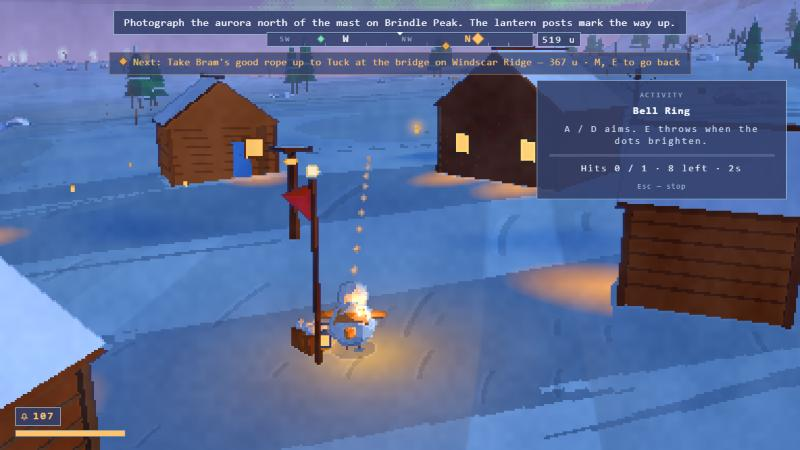
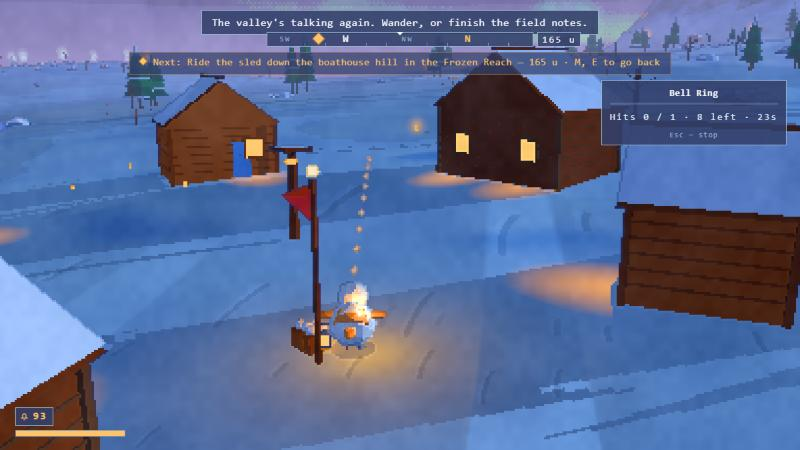
Director's round-6 picks: bigger activity gem, photo frame hidden while shooting, panel out of the viewfinder
- Activity gem 1.7x (GEM_PX 4.25) and full emissive, chosen from a side-by-side.
- A photo spot's own start frame hides while its viewfinder is up (it crossed the aurora shot).
- In photo mode the activity panel moves under the frame's bottom-right corner, running line only;
  Esc joins the keys line. At the top right it covered the subject's arrow.
- The nearby line drops an activity once a map hop has carried Pip out of range ("nearby, 773 u").
- Review page updated: fish and bell mocks redone with labels, glow proposal withdrawn.

Changed region(s): [[0.125, 0.0, 1.0, 0.4667], [0.0312, 0.9022, 0.0938, 0.9644], [0.4375, 0.7467, 0.4688, 0.7778]]

diff --git a/review/round-6/index.html b/review/round-6/index.html
@@ -7,123 +7,126 @@
 <style>
   :root {
     --bg: #f4f1ea; --card: #ffffff; --ink: #1d2230; --mute: #5d6474; --line: #ddd6c8;
-    --pick: #2f7d5b; --pick-bg: #e3f2ea; --tag: #8a5a12; --tag-bg: #f8ecd6;
+    --pick: #2f7d5b; --pick-bg: #e3f2ea; --ask: #8a5a12; --ask-bg: #f8ecd6;
   }
   @media (prefers-color-scheme: dark) {
     :root:not([data-theme="light"]) {
       --bg: #12151d; --card: #1b2030; --ink: #e8e6e1; --mute: #9aa1b2; --line: #2c3346;
-      --pick: #7fd3a8; --pick-bg: #18332a; --tag: #f1c07a; --tag-bg: #3a2c16;
+      --pick: #7fd3a8; --pick-bg: #18332a; --ask: #f1c07a; --ask-bg: #3a2c16;
     }
   }
   :root[data-theme="dark"] {
     --bg: #12151d; --card: #1b2030; --ink: #e8e6e1; --mute: #9aa1b2; --line: #2c3346;
-    --pick: #7fd3a8; --pick-bg: #18332a; --tag: #f1c07a; --tag-bg: #3a2c16;
+    --pick: #7fd3a8; --pick-bg: #18332a; --ask: #f1c07a; --ask-bg: #3a2c16;
   }
   * { box-sizing: border-box; }
   body { margin: 0; background: var(--bg); color: var(--ink); font: 15px/1.5 system-ui, -apple-system, "Segoe UI", sans-serif; }
   main { max-width: 1500px; margin: 0 auto; padding: 24px 16px 64px; }
   h1 { font-size: 22px; margin: 0 0 4px; }
-  .lede { color: var(--mute); margin: 0 0 28px; max-width: 900px; }
+  .lede { color: var(--mute); margin: 0 0 20px; max-width: 900px; }
+  .status { display: grid; grid-template-columns: repeat(auto-fit, minmax(260px, 1fr)); gap: 10px; margin-bottom: 28px; }
+  .status div { background: var(--card); border: 1px solid var(--line); border-radius: 8px; padding: 10px 12px; font-size: 14px; }
+  .status b { display: block; font-size: 12px; letter-spacing: .1em; text-transform: uppercase; color: var(--mute); margin-bottom: 2px; }
   h2 { font-size: 13px; letter-spacing: .12em; text-transform: uppercase; color: var(--mute); margin: 36px 0 12px; }
   section.item { background: var(--card); border: 1px solid var(--line); border-radius: 10px; padding: 16px; margin-bottom: 18px; }
   .head { display: flex; flex-wrap: wrap; gap: 8px 14px; align-items: baseline; margin-bottom: 4px; }
   .head h3 { margin: 0; font-size: 17px; }
   .where { color: var(--mute); font-size: 13px; }
-  .what { margin: 4px 0 12px; }
+  .what { margin: 4px 0 12px; max-width: 1000px; }
   .grid { display: grid; grid-template-columns: repeat(auto-fit, minmax(300px, 1fr)); gap: 12px; }
   figure { margin: 0; }
-  figure img { width: 100%; height: auto; display: block; border-radius: 6px; border: 1px solid var(--line); image-rendering: pixelated; cursor: zoom-in; }
+  figure img { width: 100%; height: auto; display: block; border-radius: 6px; border: 1px solid var(--line); cursor: zoom-in; }
   figcaption { font-size: 12px; font-weight: 600; letter-spacing: .08em; text-transform: uppercase; color: var(--mute); margin: 6px 2px 0; }
   figcaption span { font-weight: 400; text-transform: none; letter-spacing: 0; }
-  .pick { margin-top: 12px; padding: 8px 12px; border-radius: 6px; background: var(--pick-bg); color: var(--ink); }
+  .pick { margin-top: 12px; padding: 8px 12px; border-radius: 6px; background: var(--pick-bg); }
   .pick b { color: var(--pick); }
-  .none { display: flex; align-items: center; justify-content: center; min-height: 120px; border: 1px dashed var(--line); border-radius: 6px; color: var(--mute); font-size: 13px; padding: 12px; text-align: center; }
+  .ask { margin-top: 12px; padding: 8px 12px; border-radius: 6px; background: var(--ask-bg); }
+  .ask b { color: var(--ask); }
+  .fix { margin: 0 0 12px; padding: 8px 12px; border-left: 3px solid var(--ask); background: var(--ask-bg); border-radius: 0 6px 6px 0; }
   dialog { border: 0; padding: 0; background: transparent; max-width: 96vw; }
-  dialog img { max-width: 96vw; max-height: 92vh; image-rendering: pixelated; display: block; }
+  dialog img { max-width: 96vw; max-height: 92vh; display: block; }
   dialog::backdrop { background: rgba(0,0,0,.85); }
 </style>
 </head>
 <body>
 <main>
-  <h1>Round 6: what changed on screen, and what's still open</h1>
-  <p class="lede">Real captures from the game at 960×540, same save and same spot in each pair. "Before" is the build before rounds 5–6 (commit 4946344). "After" is now (d298b42). "Proposed" is a live in-game mock of a fix, not a paint-over. Click any image to enlarge.</p>
+  <h1>Round 6 look: your answers, acted on</h1>
+  <p class="lede">Real captures from the game at 960×540. Pink circles mark where to look. "After" is built into the game; "Proposed" is a live mock running in the game, not built yet. Click any image to enlarge.</p>
 
-  <h2>Rounds 5–6 changes</h2>
+  <div class="status">
+    <div><b>Built</b>1 panel no longer covers the arrow · 3 bigger gem · 4 photo frame hidden while shooting</div>
+    <div><b>Needs your eye</b>5 the fish (new mock) · 6 the bell (new mock, with a correction)</div>
+    <div><b>Closed</b>2 glow: proposal withdrawn · 7 ridge: left as is</div>
+  </div>
 
-  <section class="item">
-    <div class="head"><h3>1. Photo keys and the activity panel</h3><span class="where">Hoarfrost Glade photo, Pinewind</span></div>
-    <p class="what">The photo keys moved from over the compass to the bottom of the frame on a dark panel. The goal's "Next" line hides while you aim. The activity panel dropped below the compass so it no longer covers the goal line.</p>
-    <div class="grid">
-      <figure><img src="photo-before.jpg" alt=""><figcaption>Before <span>— keys, Next line and panel pile up on the compass</span></figcaption></figure>
-      <figure><img src="photo-after.jpg" alt=""><figcaption>After <span>— top strip is clean</span></figcaption></figure>
-      <div class="none">No change proposed. One small thing: the panel's lower edge now clips the top of the yellow subject arrow.</div>
-    </div>
-    <div class="pick"><b>My pick: keep After.</b></div>
-  </section>
-
-  <section class="item">
-    <div class="head"><h3>2. Pip's lantern glow at dusk</h3><span class="where">Hamlet edge, dusk</span></div>
-    <p class="what">After dark, Nana's lantern lights a warm pool round Pip, so the bird stops vanishing into the blue snow.</p>
-    <div class="grid">
-      <figure><img src="glow-before.jpg" alt=""><figcaption>Before <span>— blue bird on blue snow</span></figcaption></figure>
-      <figure><img src="glow-after.jpg" alt=""><figcaption>After <span>— light at head height</span></figcaption></figure>
-      <figure><img src="glow-proposed.jpg" alt=""><figcaption>Proposed <span>— light lowered to the lantern</span></figcaption></figure>
-    </div>
-    <p class="what" style="margin-top:10px">Why a proposal: close up (see the fish shots below), the light at head height burns an orange spot on Pip's face. Lowering it fixes that but lights less of Pip's breast.</p>
-    <div class="pick"><b>My pick: keep After.</b> At normal distance it reads best. If the face hotspot bothers you up close, I'd split the difference rather than go fully to Proposed.</div>
-  </section>
-
-  <section class="item">
-    <div class="head"><h3>3. Green markers for things to do nearby</h3><span class="where">Hamlet, looking north toward the Market Lamps</span></div>
-    <p class="what">A small green gem now turns over each activity you haven't done within 90 u, and green ticks on the compass point to ones within 60 u. A line under the goal names each one once ("Market Lamps nearby — north, 27 u").</p>
-    <div class="grid">
-      <figure><img src="gems-before.jpg" alt=""><figcaption>Before <span>— nothing says there's a thing to do here</span></figcaption></figure>
-      <figure><img src="gems-after.jpg" alt=""><figcaption>After <span>— gem (top middle), green compass ticks, nearby line</span></figcaption></figure>
-      <figure><img src="gems-proposed.png" alt=""><figcaption>Proposed <span>— gem 1.7× bigger and brighter</span></figcaption></figure>
-    </div>
-    <div class="pick"><b>My pick: Proposed.</b> At its current size the gem is a few pixels and easy to miss, which defeats the point. Bigger still sits below the story's gold gem in loudness.</div>
-  </section>
-
-  <h2>Open issues for round 7</h2>
-
-  <section class="item">
-    <div class="head"><h3>4. Orange bar across the aurora photo</h3><span class="where">Aurora photo, Brindle Peak</span></div>
-    <p class="what">The critic blamed the mast. It isn't the mast: it's the photo spot's own orange start frame, standing right beside you, so it sits in the viewfinder.</p>
-    <div class="grid">
-      <figure><img src="aurora-now.jpg" alt=""><figcaption>Now</figcaption></figure>
-      <figure><img src="aurora-proposed.jpg" alt=""><figcaption>Proposed <span>— the start frame hides while its photo is open</span></figcaption></figure>
-    </div>
-    <div class="pick"><b>My pick: Proposed</b>, applied to every photo spot.</div>
-  </section>
+  <h2>Needs your eye</h2>
 
   <section class="item">
     <div class="head"><h3>5. The fish you catch</h3><span class="where">Creek Pool, Pinewind, a grayling</span></div>
-    <p class="what">The catch hangs pale grey against pale snow and water: it reads as two loose flat shapes, not a fish.</p>
+    <p class="what">You're right that none of the old shots looked like a fish. That's the problem. When you land one, it hangs from the line beside Pip, but it's built from a stretched diamond and a cone for a tail, in one flat grey. It reads as two loose shapes. (The white ring is the ripple on the water.) The last mock only changed the colours, so it still didn't look like a fish.</p>
     <div class="grid">
-      <figure><img src="fish-now.jpg" alt=""><figcaption>Now <span>— grey body, near-white fin</span></figcaption></figure>
-      <figure><img src="fish-proposed.jpg" alt=""><figcaption>Proposed <span>— dusky mauve body, pink sail fin</span></figcaption></figure>
+      <figure><img src="p5-now.jpg" alt=""><figcaption>Now <span>— diamond + cone, flat grey</span></figcaption></figure>
+      <figure><img src="p5-proposed.jpg" alt=""><figcaption>Proposed <span>— fish silhouette: rounded body, forked tail, tall back fin, eye</span></figcaption></figure>
     </div>
-    <div class="pick"><b>My pick: Proposed</b>, with every fish given a darker body and one strong fin colour (char orange, pike green, the ghost trout staying pale with a teal fin). The mock changes colour only; the shape could also take a tail.</div>
+    <div class="ask"><b>My pick: Proposed.</b> Every fish gets the same shape, in its own colours: a darker body with one strong fin colour (char orange, pike green, the ghost trout pale with a teal fin). I'd also shrink it about a fifth, since it's a little big beside Pip.</div>
   </section>
 
   <section class="item">
     <div class="head"><h3>6. The bell you throw at</h3><span class="where">Bell Ring, Hamlet square</span></div>
-    <p class="what">Confirmed. The bell is the small dark red shape at the top of the post, and it reads as a pennant. Nothing tells you it's the target, and the aim dots start off to one side of it.</p>
+    <p class="fix"><b>Correction:</b> last time I said the bell was the red shape. It isn't. The red triangle is the Bell Ring's start flag. The bell is the tiny yellow dot under the crossbar at the top of the post, and the flag stands right in front of it.</p>
+    <p class="what"><b>What Bell Ring is:</b> a throwing game in the square. You turn with A/D (the dotted line shows your throw) and press E to throw a snowball at the bell; one hit rings it. The critic couldn't tell what they were aiming at.</p>
     <div class="grid">
-      <figure><img src="bell-now.jpg" alt=""><figcaption>Now</figcaption></figure>
-      <figure><img src="bell-proposed.jpg" alt=""><figcaption>Proposed <span>— a lit lantern-coloured ring round the bell while aiming</span></figcaption></figure>
+      <figure><img src="p6-now.jpg" alt=""><figcaption>Now <span>— bell is a dot; flag in front of it</span></figcaption></figure>
+      <figure><img src="p6-a.jpg" alt=""><figcaption>Proposed A <span>— a real brass bell, bigger; flag moved aside</span></figcaption></figure>
+      <figure><img src="p6-b.jpg" alt=""><figcaption>Proposed B <span>— A, plus a lit ring round the bell</span></figcaption></figure>
     </div>
-    <div class="pick"><b>My pick: Proposed</b>, and recolour the bell brass so it reads as a bell.</div>
+    <p class="what" style="margin-top:10px"><b>About the ring:</b> it shows only while you're playing Bell Ring, to say "this is the target", and goes away when you stop. Walking round the square, you'd just see the brass bell. The snowman build already uses a lit ring the same way.</p>
+    <div class="ask"><b>My pick: B.</b> A alone makes the bell readable; the ring makes it unmissable at dusk, when the bell is darkest.</div>
+  </section>
+
+  <h2>Built</h2>
+
+  <section class="item">
+    <div class="head"><h3>1. Activity panel clipping the photo arrow</h3><span class="where">Hoarfrost Glade photo, Pinewind</span></div>
+    <p class="what">While you aim a photo, the panel now sits under the frame's bottom-right corner and shows only the running line. "Esc stop" moved onto the keys line. The frame itself is clear.</p>
+    <div class="grid">
+      <figure><img src="p1-before.jpg" alt=""><figcaption>Before</figcaption></figure>
+      <figure><img src="p1-after.jpg" alt=""><figcaption>After</figcaption></figure>
+    </div>
   </section>
 
   <section class="item">
-    <div class="head"><h3>7. The "whiteout" on Windscar Ridge</h3><span class="where">Climbing the ridge face</span></div>
-    <p class="what">On the steep face the slope fills the frame: one blue surface with nothing on it. The critic filed this as camera.</p>
+    <div class="head"><h3>3. Bigger green gem over things to do</h3><span class="where">Hamlet, dusk</span></div>
+    <p class="what">Built as you picked: 1.7× the size and brighter.</p>
     <div class="grid">
-      <figure><img src="ridge-now.jpg" alt=""><figcaption>Now</figcaption></figure>
-      <div class="none">No mock. The framing is the camera, which you've signed off. The art-side option would be rock outcrops and drift lines on the face, so it isn't one blank surface.</div>
+      <figure><img src="p3-before.jpg" alt=""><figcaption>Before</figcaption></figure>
+      <figure><img src="p3-after.jpg" alt=""><figcaption>After</figcaption></figure>
     </div>
-    <div class="pick"><b>My pick: leave it.</b> Say so if you want the rock outcrops tried.</div>
+  </section>
+
+  <section class="item">
+    <div class="head"><h3>4. Photo spot's frame post hidden while shooting</h3><span class="where">Aurora photo, Brindle Peak</span></div>
+    <p class="what">Built for every photo spot. The post comes back as soon as the photo closes. (The panel has also moved out of the frame, from item 1.)</p>
+    <div class="grid">
+      <figure><img src="aurora-now.jpg" alt=""><figcaption>Before</figcaption></figure>
+      <figure><img src="aurora-built.jpg" alt=""><figcaption>After</figcaption></figure>
+    </div>
+  </section>
+
+  <h2>Closed</h2>
+
+  <section class="item">
+    <div class="head"><h3>2. Pip's lantern glow</h3></div>
+    <p class="what">You're right: the proposal looked the same as the current glow at normal distance. The face hotspot it was meant to fix doesn't show from the usual camera angle either, so I've dropped it. The glow stays as built.</p>
+    <div class="grid">
+      <figure><img src="glow-before.jpg" alt=""><figcaption>Before rounds 5–6</figcaption></figure>
+      <figure><img src="glow-after.jpg" alt=""><figcaption>Now (kept)</figcaption></figure>
+    </div>
+  </section>
+
+  <section class="item">
+    <div class="head"><h3>7. Windscar Ridge face</h3></div>
+    <p class="what">Left as is.</p>
   </section>
 </main>
 <dialog id="big"><img alt=""></dialog>

diff --git a/src/game/world/activityGems.ts b/src/game/world/activityGems.ts
@@ -7,7 +7,7 @@
  * that far away is a grey fleck. The map drew their glyphs; nothing in the world said "here".
  *
  * Quieter than the story's gem and the errand's (goalMarker.ts): no column of light, green rather than
- * lantern or amber, a smaller size on screen, shown only inside SEEN units and gone inside the E pill's
+ * lantern or amber, shown only inside SEEN units and gone inside the E pill's
  * reach. Once an activity has been done its gem never comes back; the map keeps its glyph for a rerun.
  * It draws over the hill in front of it, as a mark on the skyline would: the point is "over there".
  * Sized in screen pixels like the goal gem, so it reads the same at 20 units and at 90.
@@ -24,8 +24,12 @@ const SEEN = 90;
 const FADE = 20;
 /** Gone inside this: the activity's own E pill is up. */
 const NEAR = 6;
-/** The gem's half-height in internal pixels (the story's is 3.5, the errand's 2.5). */
-const GEM_PX = 2.5;
+/**
+ * The gem's half-height in internal pixels (the story's is 3.5, the errand's 2.5). At 2.5 it was a
+ * few pixels and missed; the director chose this size from a side-by-side. The story's gem still
+ * leads: it alone stands on a column of light.
+ */
+const GEM_PX = 4.25;
 /** Above the start's ground, clear of a start post and a villager's head. */
 const LIFT = 2.8;
 const PX_PER_UNIT = (2 * Math.tan(((CAMERA.fov / 2) * Math.PI) / 180)) / 216;
@@ -42,7 +46,7 @@ export function createActivityGems(sampler: TerrainSampler, activities: readonly
   const geo = new THREE.OctahedronGeometry(1, 0);
   const gems = activities.map((a) => {
     const mat = new THREE.MeshLambertMaterial({
-      color: PALETTE.AURORA_G, emissive: new THREE.Color(PALETTE.AURORA_G), emissiveIntensity: 0.5,
+      color: PALETTE.AURORA_G, emissive: new THREE.Color(PALETTE.AURORA_G), emissiveIntensity: 1,
       flatShading: true, fog: false, transparent: true,
       // Drawn over the ground in front of it: the kite and the chimney race stand on the ridge's top,
       // above the trail's sight line, and a gem the hill hides says nothing.

diff --git a/src/game/session/activityRunner.ts b/src/game/session/activityRunner.ts
@@ -65,6 +65,9 @@ export interface ActivityRunner {
 
 export function createActivityRunner(d: ActivityRunnerDeps): ActivityRunner {
   let active: ActivityInstance | null = null;
+  /** A photo's own start frame, hidden while the viewfinder is up: it stands beside the spot and
+   * crossed the aurora shot (critic round 7). */
+  let framed: string | null = null;
   let seconds = 0;
   let openingYaw: number | null = null;
   let openingLeft = 0;
@@ -88,6 +91,8 @@ export function createActivityRunner(d: ActivityRunnerDeps): ActivityRunner {
     // One last sync: an aborted build puts its pile back as it was, a finished one leaves it standing.
     d.markers.sync(a.markers?.() ?? []);
     d.markers.clear();
+    if (framed) d.markers.hide(framed, false);
+    framed = null;
     active = null;
     const line = a.result() !== null ? extras(a).summary?.() ?? null : null;
     if (line) {
@@ -121,6 +126,8 @@ export function createActivityRunner(d: ActivityRunnerDeps): ActivityRunner {
       resultLeft = 0;
       openingYaw = extras(active).startYaw?.() ?? null;
       openingLeft = openingYaw === null ? 0 : OPENING_TURN;
+      framed = def.kind === 'photo' ? `start:${def.id}` : null;
+      if (framed) d.markers.hide(framed, true);
       running = extras(active).solids?.() ?? [];
       d.solids?.push(...running);
       const hint = HINT_FOR_ID[def.id] ?? extras(active).instruction?.() ?? undefined;

diff --git a/src/styles/photo.css b/src/styles/photo.css
@@ -36,6 +36,18 @@
 /* The errand line sits in the same band as the keys, and a framed shot has no use for it. */
 #ui:has(.ui-finder:not([hidden])) .ui-hud__next { visibility: hidden; }
 
+/* The activity panel leaves the frame too: at the top right it covered the subject's arrow whenever the
+   subject stood up and to the right (director, round 6 look). Under the frame's bottom-right corner it
+   keeps only the running line; the name is on the prompt you pressed, and Esc joins the keys. */
+#ui:has(.ui-finder:not([hidden])) .ui-activity {
+  top: auto; right: 9%; bottom: 6px; min-width: 0; max-width: 210px; padding: 4px 10px 5px;
+}
+#ui:has(.ui-finder:not([hidden])) .ui-activity__kicker,
+#ui:has(.ui-finder:not([hidden])) .ui-activity__name,
+#ui:has(.ui-finder:not([hidden])) .ui-activity__hint,
+#ui:has(.ui-finder:not([hidden])) .ui-activity__foot { display: none; }
+#ui:has(.ui-finder:not([hidden])) .ui-activity__label { margin-top: 4px; font-size: 10px; line-height: 1.3; }
+
 /* Under the frame's bottom edge: over its top edge, the keys sat on the compass (critic round 6). */
 .ui-finder__keys {
   position: absolute; left: 50%; bottom: calc(11% - 22px); transform: translateX(-50%); margin: 0;

diff --git a/src/game/world/activityMarkers.ts b/src/game/world/activityMarkers.ts
@@ -127,6 +127,8 @@ export interface ActivityMarkerLayer {
   clear(): void;
   /** Put kept pieces back without an activity running, e.g. a finished build after a reload. */
   restore(specs: readonly MarkerSpec[]): void;
+  /** Hide or show one kept group (`keep` key) without touching its pieces. */
+  hide(key: string, hidden: boolean): void;
   dispose(): void;
 }
 
@@ -220,6 +222,10 @@ export function createActivityMarkers(): ActivityMarkerLayer {
     clear,
     restore(specs): void {
       syncKept(specs as readonly PlacedMarker[]);
+    },
+    hide(key, hidden): void {
+      const g = kept.get(key);
+      if (g) g.visible = !hidden;
     },
     dispose(): void {
       for (const proto of Object.values(PROTOTYPES)) proto.geometry.dispose();

diff --git a/src/game/ui/hudNearby.ts b/src/game/ui/hudNearby.ts
@@ -40,7 +40,10 @@ export function createNearbyNotice(activities: readonly ActivityDef[]): { update
       if (current && nowMs < until) {
         const d = Math.hypot(current.pos.x - from.x, current.pos.z - from.z);
         if (d < 4) return '';
-        return `${current.name} nearby — ${compassWord(current.pos.x - from.x, current.pos.z - from.z)}, ${formatDistance(d)}`;
+        // A map hop carries Pip hundreds of units inside the line's few seconds: "nearby, 773 u".
+        if (d <= NOTICE_RANGE) {
+          return `${current.name} nearby — ${compassWord(current.pos.x - from.x, current.pos.z - from.z)}, ${formatDistance(d)}`;
+        }
       }
       current = null;
       for (const a of activities) {

diff --git a/src/game/ui/viewfinder.ts b/src/game/ui/viewfinder.ts
@@ -26,7 +26,7 @@ export function createViewfinder(root: HTMLElement): Viewfinder {
     '<i class="ui-finder__corner is-tl"></i><i class="ui-finder__corner is-tr"></i>' +
     '<i class="ui-finder__corner is-bl"></i><i class="ui-finder__corner is-br"></i>' +
     '<i class="ui-finder__mark"></i>' +
-    '<p class="ui-finder__keys">A / D turn · W / S tilt · E shoot</p>';
+    '<p class="ui-finder__keys">A / D turn · W / S tilt · E shoot · Esc stop</p>';
   root.appendChild(frame);
   let wasCentred = false;
 
